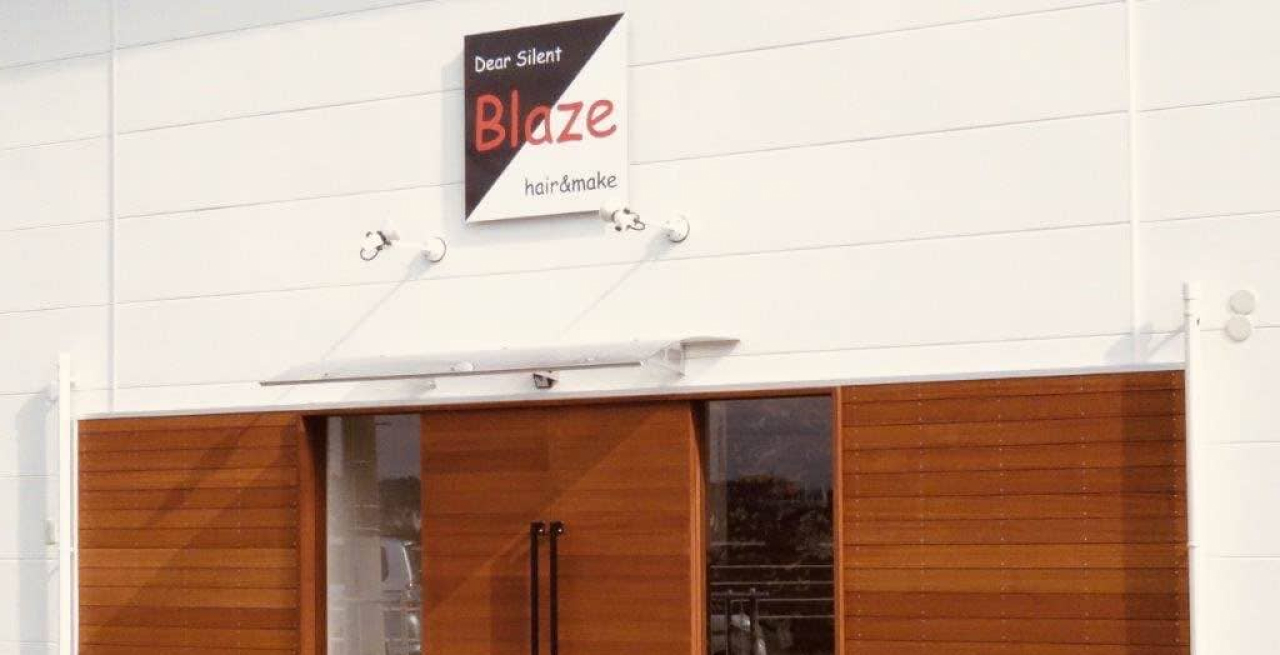
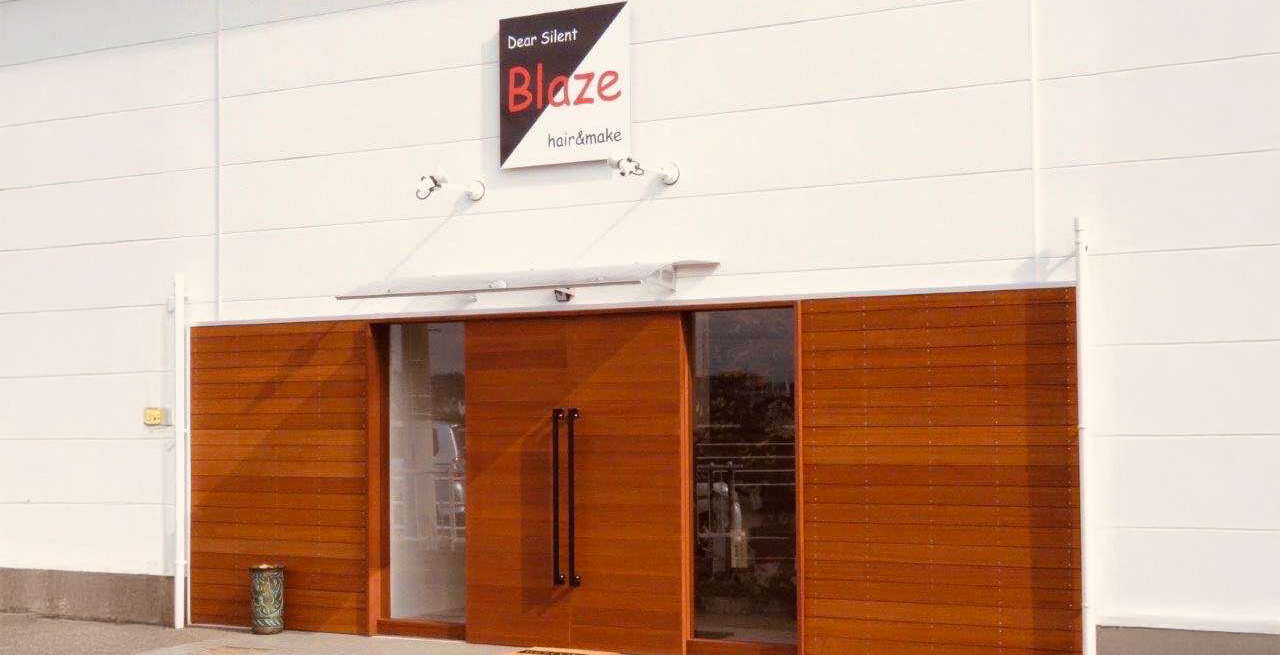
index.htmlの修正と追加。style.cssの修正。script.jsの修正とhome.jsの追加。画像の修正。

diff --git a/index.html b/index.html
@@ -28,6 +28,7 @@
   <script src="https://code.jquery.com/jquery-3.7.1.min.js" defer></script>
   <script src="https://cdnjs.cloudflare.com/ajax/libs/slick-carousel/1.9.0/slick.min.js" defer></script>
   <script src="script.js" defer></script>
+  <script src="home.js" defer></script>
   <title>【宮崎市】美容室 Dear Silent Blaze hair&make | ディア サイレント ブレイズ</title>
 </head>
 <body>
@@ -75,7 +76,7 @@
   <main>
     <div class="main-visual">
       <ul class="mv-slider" id="mv-slider">
-        <li>
+        <li class="mv-position-top">
           <img src="image/mv1.jpg" alt="Dear Silent Blaze hair&makeの正面入口" width="1280" height="655">
         </li>
         <li>

diff --git a/style.css b/style.css
@@ -166,7 +166,8 @@ p {
     transition: transform 0.3s ease-in-out;
     z-index: 150;
     font-size: 20px;
-    padding: 80px 8% 0;
+    padding: 80px 8%;
+    overflow-y: auto;
   }
 
   .global-nav ul {
@@ -710,6 +711,10 @@ footer {
 @media screen and (width >= 1280px) {
   .mv-slider li img {
     height: 655px;
+  }
+
+  .mv-position-top img {
+    object-position: center top;
   }
 }
 

diff --git a/script.js b/script.js
@@ -31,19 +31,3 @@ menulinks.forEach(link => {
     }
   });
 });
-
-/**
- * トップページのフェードスライド
- **/ 
-
-$('#mv-slider').slick({
-  fade: true,
-  speed: 1500,
-  autoplaySpeed: 4000,
-  arrows: false,
-  autoplay: true,
-  slidesToshow: 1,
-  slidesToscroll: 1,
-  infinite: true,
-  dots: true,
-});

diff --git a/home.js b/home.js
@@ -1,0 +1,15 @@
+/**
+ * トップページのフェードスライド
+ **/ 
+
+$('#mv-slider').slick({
+  fade: true,
+  speed: 1500,
+  autoplaySpeed: 4000,
+  arrows: false,
+  autoplay: true,
+  slidesToshow: 1,
+  slidesToscroll: 1,
+  infinite: true,
+  dots: true,
+});
